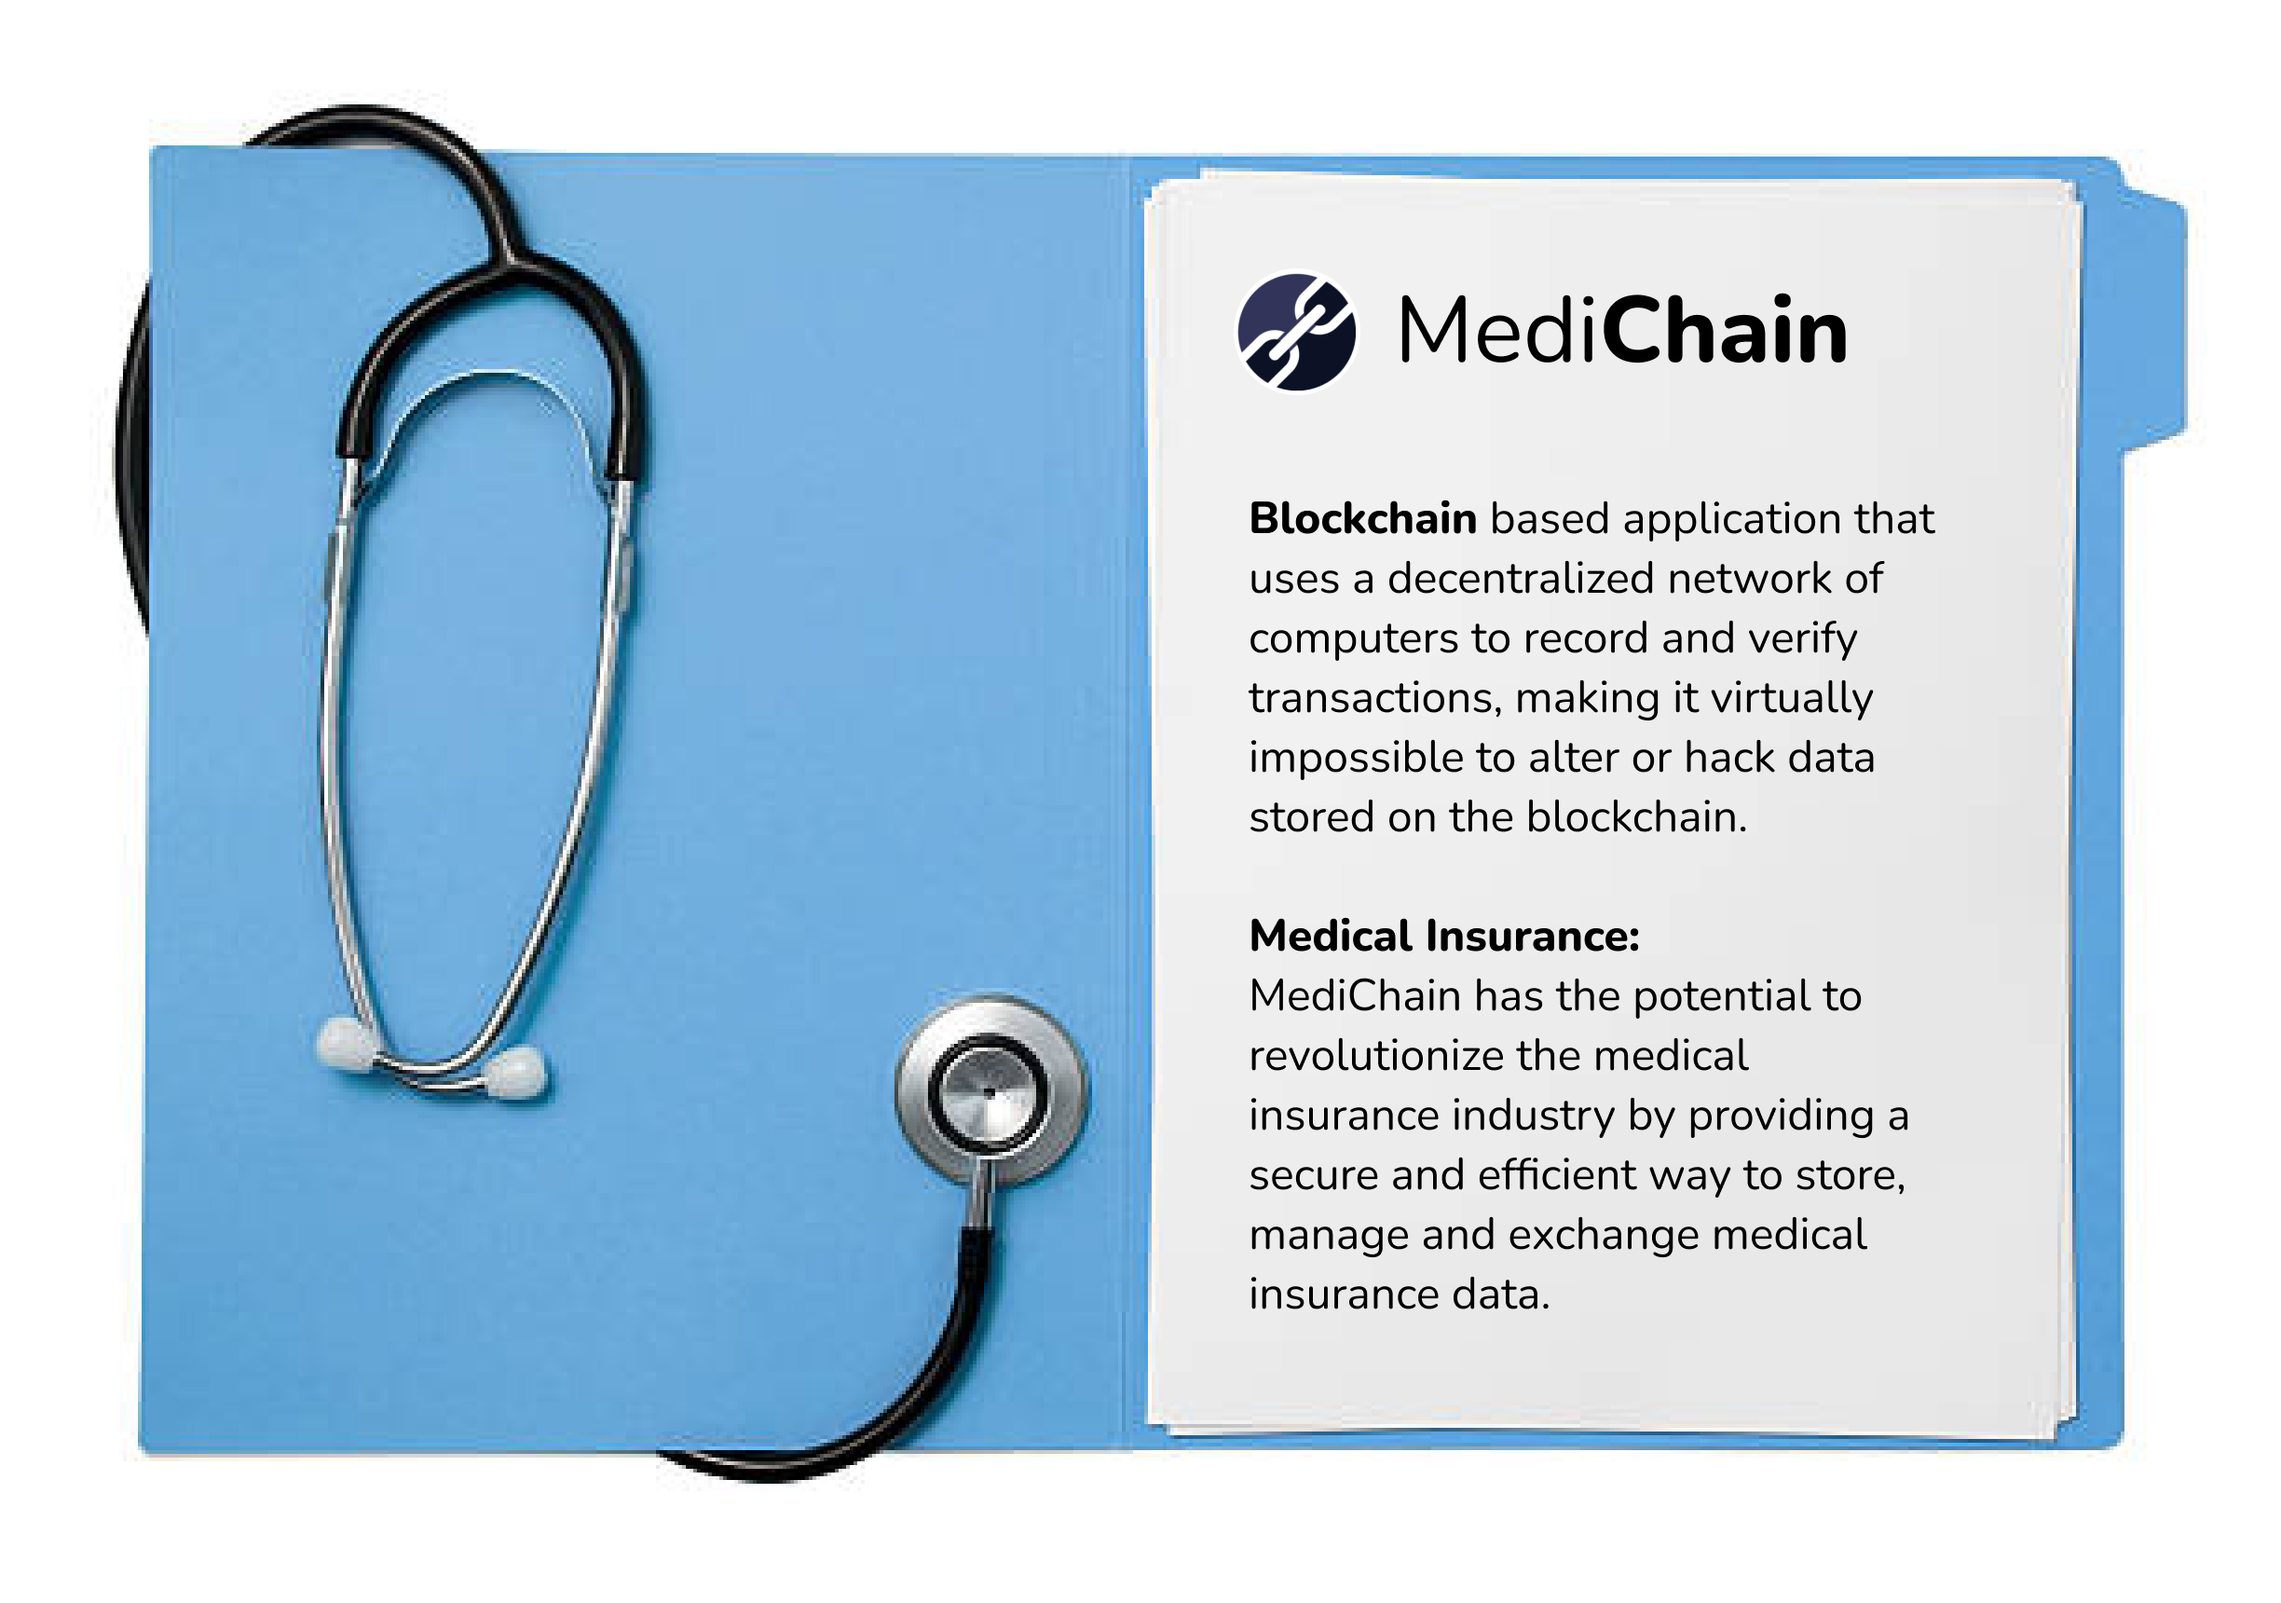
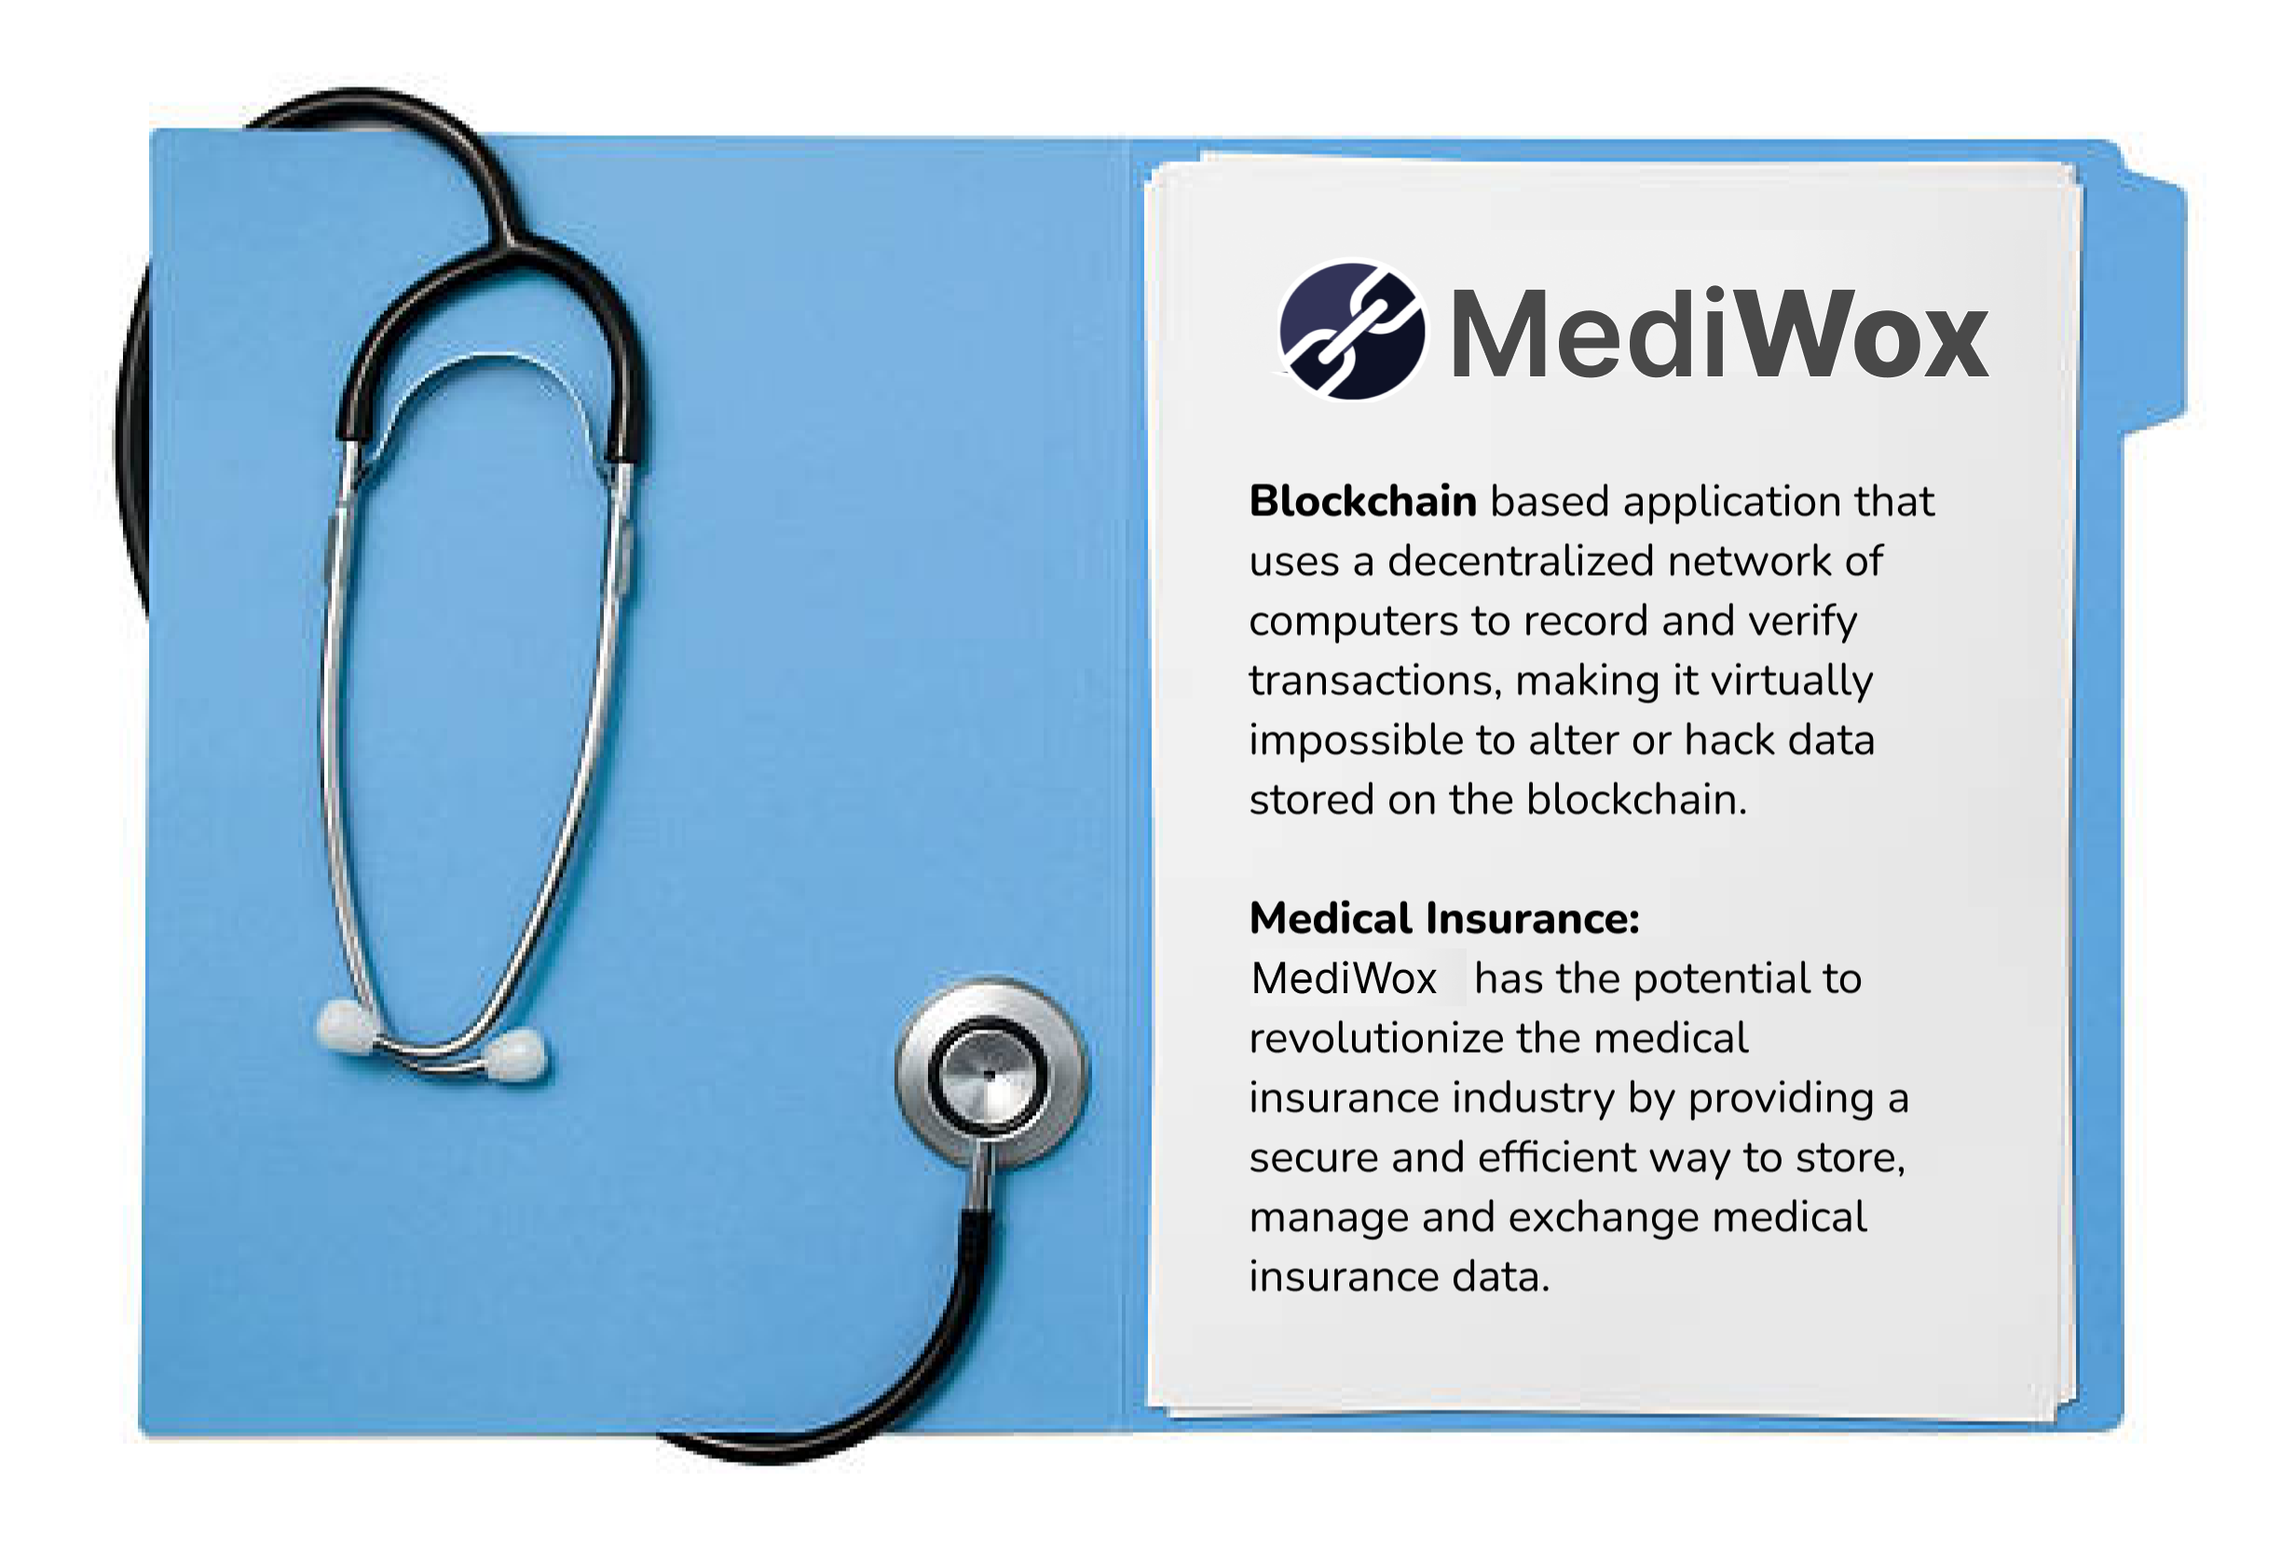
Updated project title and added rejectClaim and handleShowRecord functions

diff --git a/client/src/components/Insurer.js b/client/src/components/Insurer.js
@@ -55,24 +55,66 @@ const Insurer = ({mediChain, account, ethValue}) => {
         }
         setPatList(pt)
     }
+    // const getClaimsData = async () => {
+    //     var claimsIdList = await mediChain.methods.getInsurerClaims(account).call();
+    //     let cl = [];
+    //     for(let i=claimsIdList.length-1; i>=0; i--){
+    //         let claim = await mediChain.methods.claims(claimsIdList[i]).call();
+    //         let patient = await mediChain.methods.patientInfo(claim.patient).call();
+    //         let doctor = await mediChain.methods.doctorInfo(claim.doctor).call();
+    //         claim = {...claim, id: claimsIdList[i], patientEmail: patient.email, doctorEmail: doctor.email, policyName: claim.policyName}
+    //         cl = [...cl, claim];
+    //     }
+    //     setClaimsList(cl);
+    // }
+
     const getClaimsData = async () => {
-        var claimsIdList = await mediChain.methods.getInsurerClaims(account).call();
-        let cl = [];
-        for(let i=claimsIdList.length-1; i>=0; i--){
-            let claim = await mediChain.methods.claims(claimsIdList[i]).call();
-            let patient = await mediChain.methods.patientInfo(claim.patient).call();
-            let doctor = await mediChain.methods.doctorInfo(claim.doctor).call();
-            claim = {...claim, id: claimsIdList[i], patientEmail: patient.email, doctorEmail: doctor.email, policyName: claim.policyName}
-            cl = [...cl, claim];
+        try {
+            var claimsIdList = await mediChain.methods.getInsurerClaims(account).call();
+            let cl = [];
+            for (let i = claimsIdList.length - 1; i >= 0; i--) {
+                let claim = await mediChain.methods.claims(claimsIdList[i]).call();
+                let patient = await mediChain.methods.patientInfo(claim.patient).call();
+                let doctor = await mediChain.methods.doctorInfo(claim.doctor).call();
+                claim = { ...claim, id: claimsIdList[i], patientEmail: patient.email, doctorEmail: doctor.email, policyName: claim.policyName };
+                cl = [...cl, claim];
+            }
+            setClaimsList(cl);
+        } catch (error) {
+            console.error("Error fetching claims data:", error);
         }
-        setClaimsList(cl);
-    }
+    };
+
+    console.log("claimsList:", claimsList);
+
+    // const approveClaim = async (e, claim) => {
+    //     let value = claim.valueClaimed/ethValue;
+    //     mediChain.methods.approveClaimsByInsurer(claim.id).send({from: account, value: Web3.utils.toWei(value.toString(), 'Ether')}).on('transactionHash', (hash) => {
+    //         return window.location.href = '/login'
+    //     })
+    // }
+
     const approveClaim = async (e, claim) => {
-        let value = claim.valueClaimed/ethValue;
-        mediChain.methods.approveClaimsByInsurer(claim.id).send({from: account, value: Web3.utils.toWei(value.toString(), 'Ether')}).on('transactionHash', (hash) => {
-            return window.location.href = '/login'
-        })
-    }
+        e.preventDefault();
+        let value = claim.valueClaimed / ethValue;
+        try {
+            await mediChain.methods.approveClaimsByInsurer(claim.id).send({
+                from: account,
+                value: Web3.utils.toWei(value.toString(), 'Ether')
+            }).on('transactionHash', (hash) => {
+                console.log("Transaction hash:", hash);
+            });
+    
+            // Fetch updated claims data to reflect the changes in the UI
+            await getClaimsData();
+    
+            // Optionally, you can add a success message or redirect the user
+            console.log("Claim approved successfully");
+        } catch (error) {
+            console.error("Error approving claim:", error);
+        }
+    };
+
     const rejectClaim = async (e, claim) => {
         mediChain.methods.rejectClaimsByInsurer(claim.id).send({from: account}).on('transactionHash', (hash) => {
             return window.location.href = '/login'

diff --git a/client/src/components/Patient.js b/client/src/components/Patient.js
@@ -91,15 +91,43 @@ const Patient = ({mediChain, account, ethValue}) => {
 
   const getTransactionsList = async () => {
     var transactionsIdList = await mediChain.methods.getPatientTransactions(account).call();
+
+    // console.log("Transactions ID list:", transactionsIdList);
+
     let tr = [];
     for(let i=transactionsIdList.length-1; i>=0; i--){
         let transaction = await mediChain.methods.transactions(transactionsIdList[i]).call();
+        console.log("Transaction:", transaction);
+
         let doctor = await mediChain.methods.doctorInfo(transaction.receiver).call();
+
+        console.log("Doctor:", doctor);
         transaction = {...transaction, id: transactionsIdList[i], doctorEmail: doctor.email}
         tr = [...tr, transaction];
     }
+
+    console.log("Transactions list:", tr);
+
     setTransactionsList(tr);
   }
+
+  // console.log("Transactions list123:", transactionsList);
+  // const getTransactionsList = async () => {
+  //   console.log("Fetching transactions...");
+  //   var transactionsIdList = await mediChain.methods.getPatientTransactions(account).call();
+  //   console.log("Transaction IDs:", transactionsIdList);
+  //   let tr = [];
+  //   for(let i=transactionsIdList.length-1; i>=0; i--){
+  //     let transaction = await mediChain.methods.transactions(transactionsIdList[i]).call();
+  //     console.log("Transaction details:", transaction);
+  //     let doctor = await mediChain.methods.doctorInfo(transaction.receiver).call();
+  //     transaction = {...transaction, id: transactionsIdList[i], doctorEmail: doctor.email}
+  //     tr = [...tr, transaction];
+  //   }
+  //   console.log("Processed transactions:", tr);
+  //   setTransactionsList(tr);
+  // }
+  
 
   const settlePayment = async (e, transaction) => {
     let value = transaction.value/ethValue;
@@ -128,6 +156,11 @@ const Patient = ({mediChain, account, ethValue}) => {
     if(buyFromInsurer && buyFromInsurer !== "Choose") getPolicyList();
     if(transactionsList.length === 0) getTransactionsList();
   }, [patient, docList, insurerList, buyFromInsurer, transactionsList])
+
+  // console.log("Current transactionsList:", transactionsList);
+  // console.log("Current patient:", docList);
+  // console.log("Current patient record:", patientRecord);
+  
 
   return (
     <div>
@@ -284,8 +317,8 @@ const Patient = ({mediChain, account, ethValue}) => {
                         <td>{transaction.date}</td>
                         <td>{transaction.disease}</td>
                         <td>INR {transaction.value}</td>
-                        <td>{transaction.paymentStatus === "0" ? 'Pending' : 'Paid'}</td>
-                        <td>{transaction.paymentStatus === "0" ? <Button variant="coolColor" onClick={(e) => settlePayment(e, transaction)}>Pay Now</Button> : 'Settled'}</td>
+                        <td>{!transaction?.settled ? 'Pending' : 'Paid'}</td>
+                        <td>{!transaction?.settled  ? <Button variant="coolColor" onClick={(e) => settlePayment(e, transaction)}>Pay Now</Button> : 'Settled'}</td>
                       </tr>
                     )
                   })

diff --git a/client/public/index.html b/client/public/index.html
@@ -31,7 +31,7 @@
       work correctly both with client-side routing and a non-root public URL.
       Learn how to configure a non-root public URL by running `npm run build`.
     -->
-    <title>MediChain</title>
+    <title>MediWox</title>
   </head>
   <body>
     <noscript>You need to enable JavaScript to run this app.</noscript>
